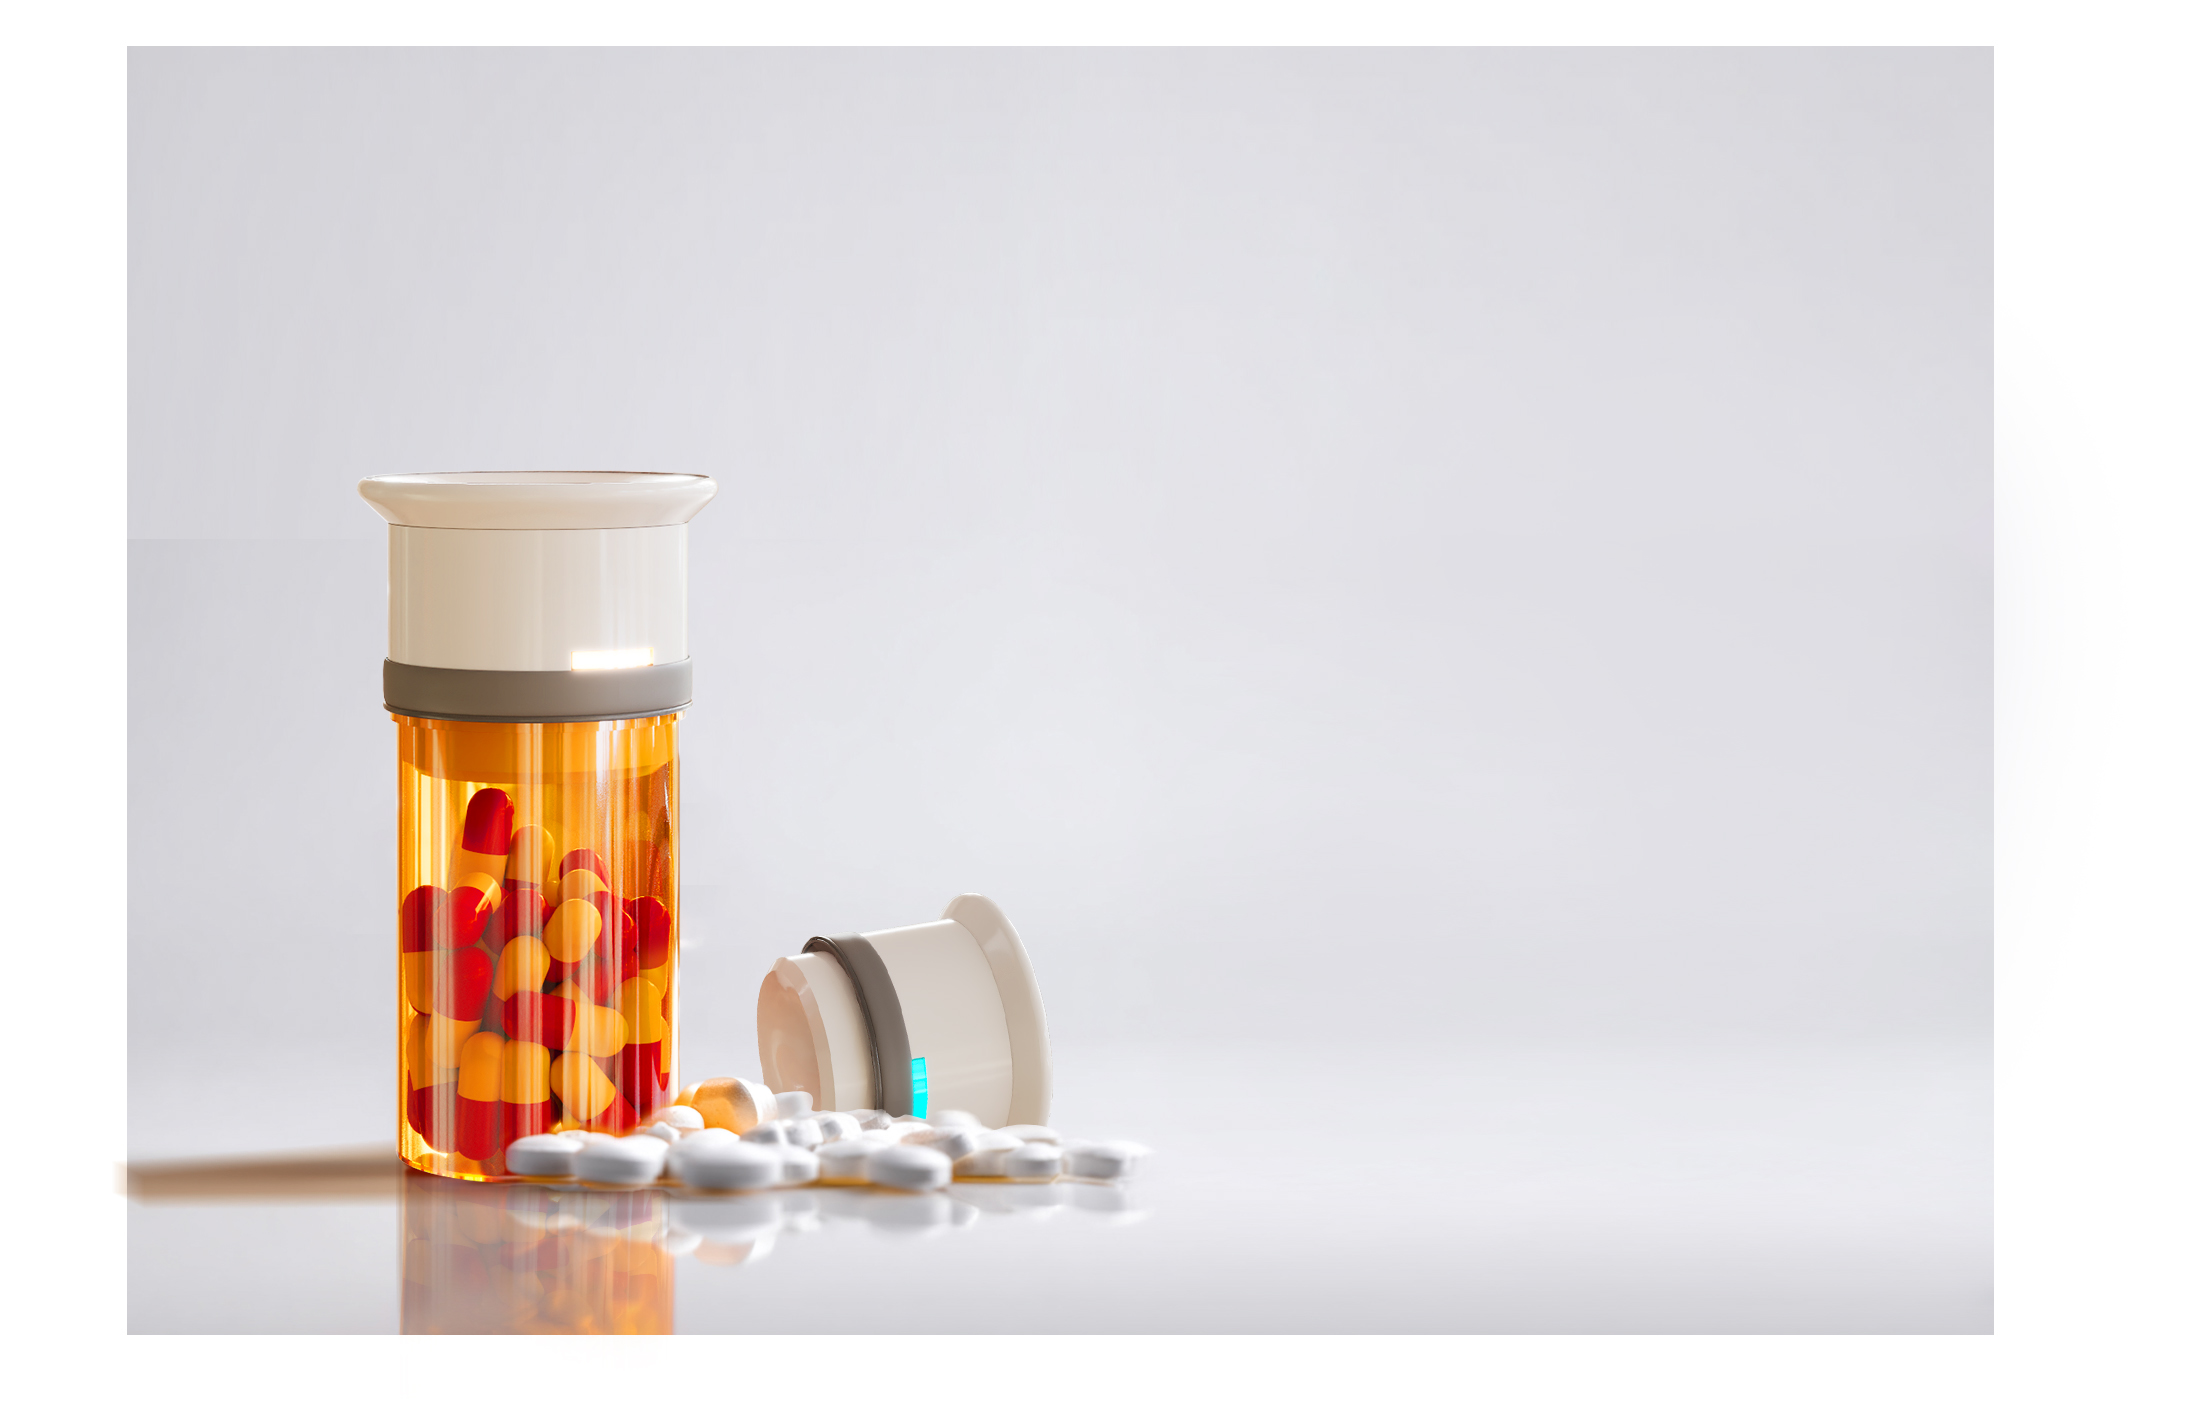
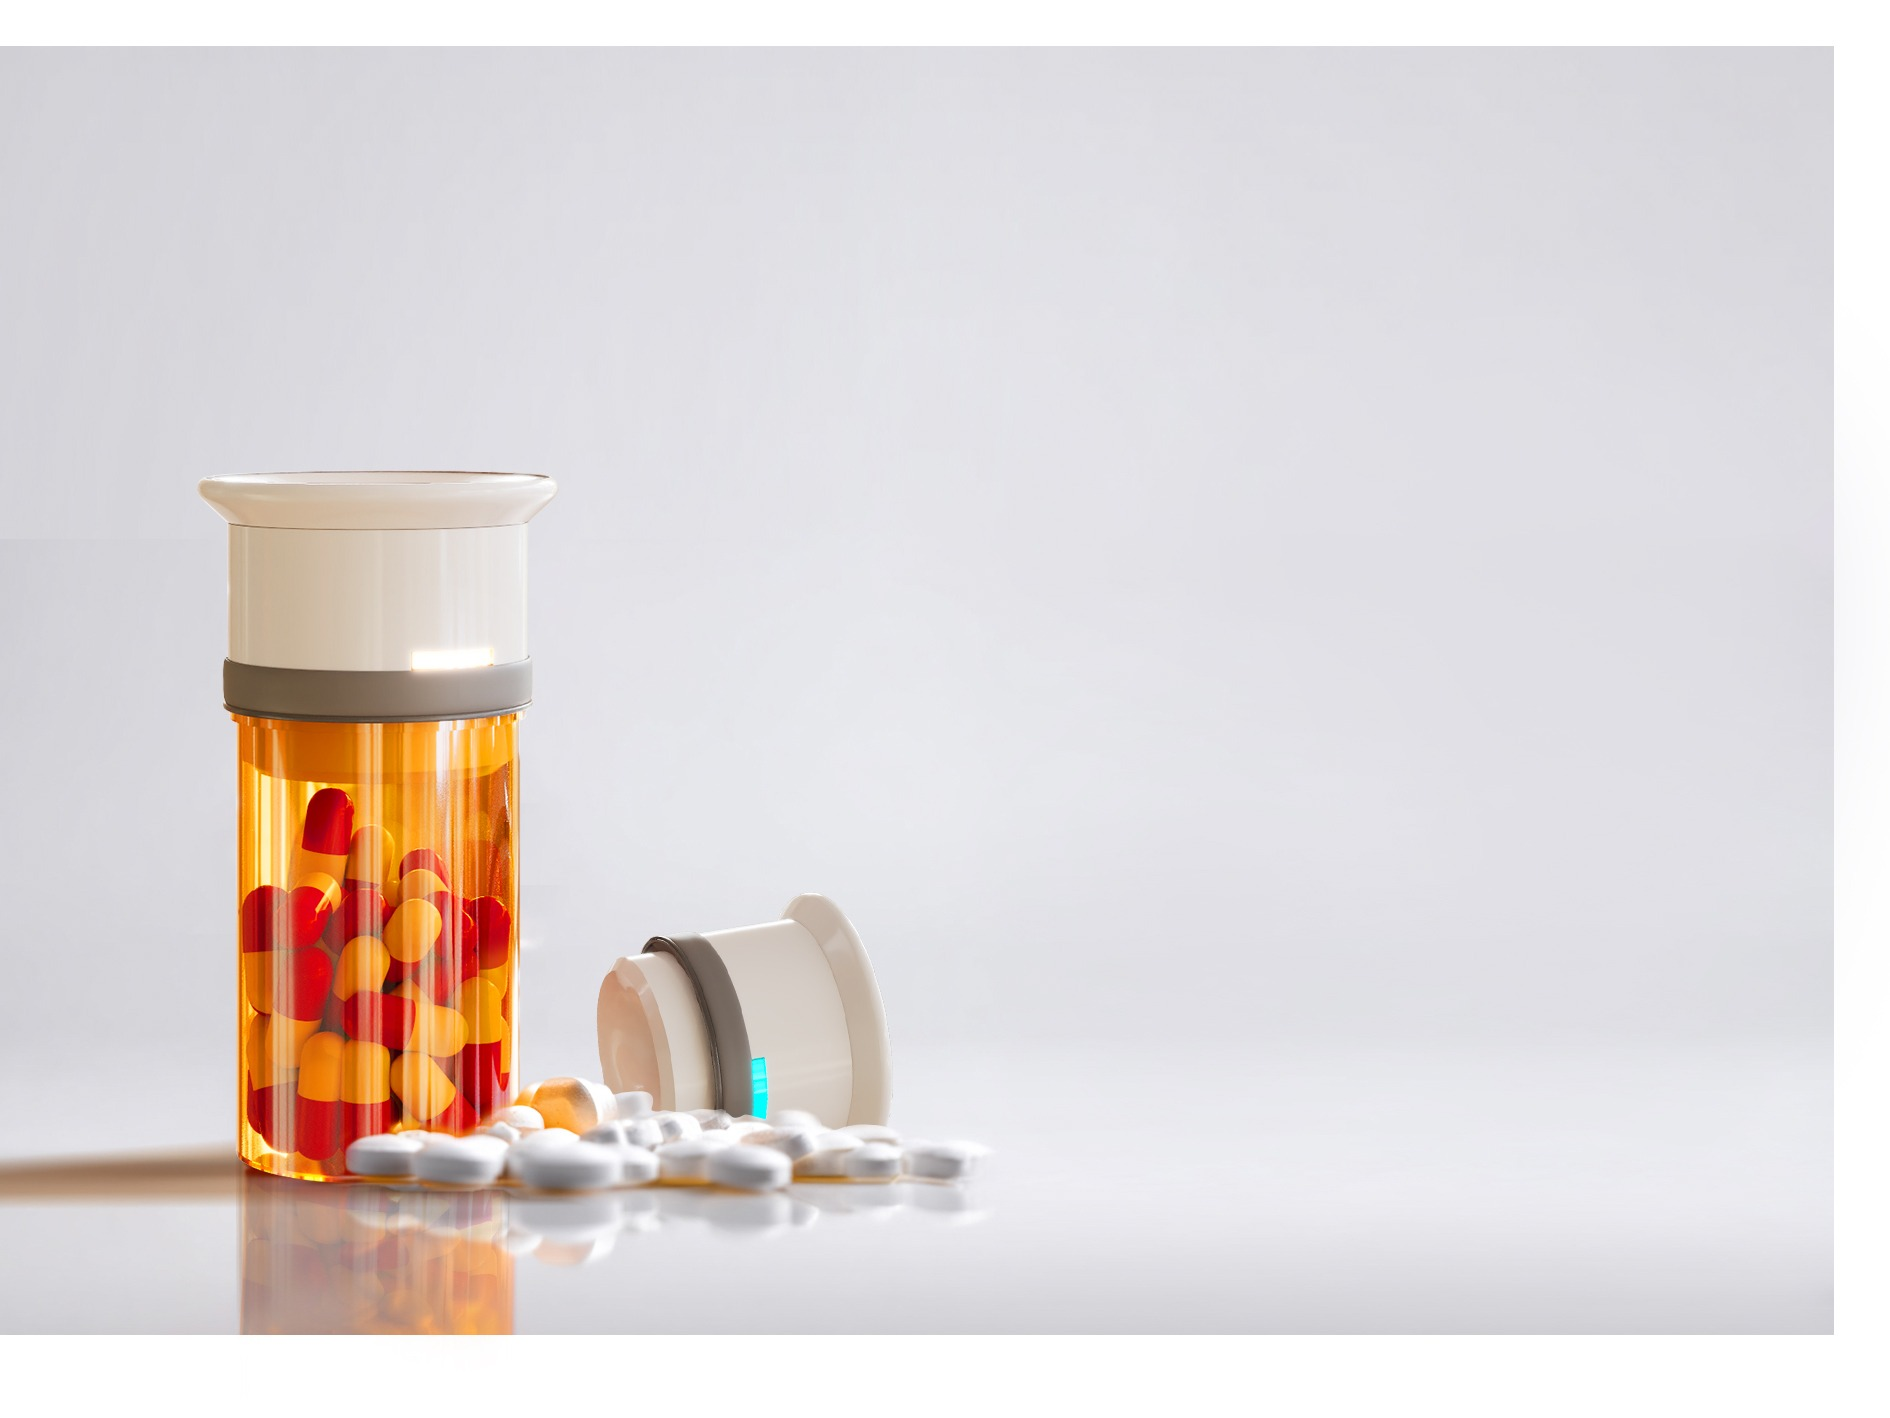
Crop Dosage-Pal image to 4:3 so it fills the card frame
work-1.jpg was 2211x1418 (3:2) which letterboxed inside the 4:3 card.
Cropped to 1890x1418 (4:3) and switched object-fit back to cover so
both project cards now look full-bleed.

Changed region(s): [[0.0, 0.031, 0.4995, 0.9619], [0.8741, 0.031, 0.9677, 0.7757], [0.8741, 0.8378, 0.9677, 0.9619]]

diff --git a/style.css b/style.css
@@ -210,7 +210,7 @@ em { font-style: italic; }
   inset: 0;
   width: 100%;
   height: 100%;
-  object-fit: contain;
+  object-fit: cover;
   object-position: center;
   display: block;
   transition: transform .6s var(--ease);